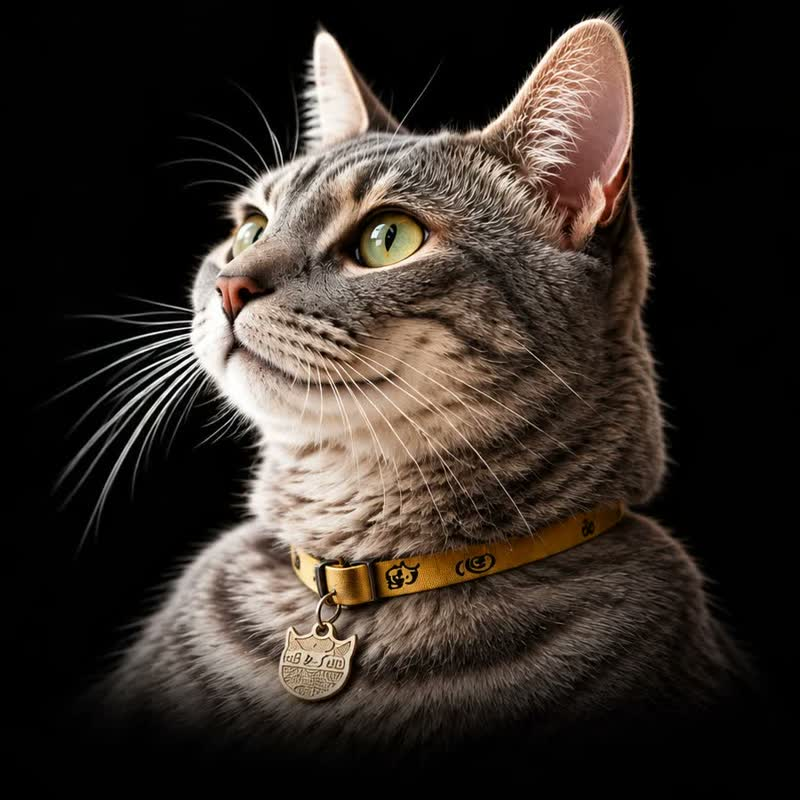
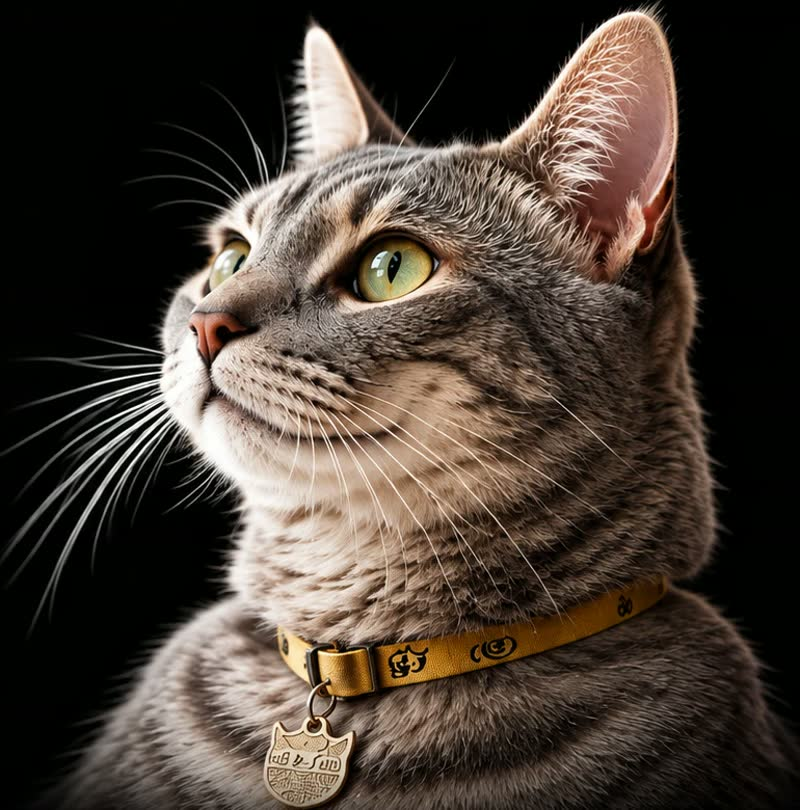
Hero mobile: gato maior e texto colado na imagem

diff --git a/hotel-mulher-gato-v3sn/index.html b/hotel-mulher-gato-v3sn/index.html
@@ -180,7 +180,7 @@ h2,h3{font-weight:500}
 
 /* Texto maior + vídeo evidente */
 .media img{height:auto;object-position:center}.gallery img{height:100%;object-position:center}.split>*{min-width:0}
-@media(max-width:700px){.hero picture{top:64px;bottom:auto;height:auto;aspect-ratio:1/1}.hero img.cat{object-position:50% 0;-webkit-mask-image:linear-gradient(0deg,transparent 0,#000 14%);mask-image:linear-gradient(0deg,transparent 0,#000 14%)}.hero .wrap{padding-top:calc(64px + 100vw - 24px)}.hero::after{background:linear-gradient(0deg,var(--bg) 46%,rgba(9,9,9,0) 62%)}}
+@media(max-width:700px){.hero picture{top:64px;bottom:auto;height:auto;aspect-ratio:770/780}.hero img.cat{object-position:50% 0;-webkit-mask-image:linear-gradient(0deg,transparent 0,#000 10%);mask-image:linear-gradient(0deg,transparent 0,#000 10%)}.hero .wrap{padding-top:calc(64px + 101vw - 46px)}.hero::after{background:linear-gradient(0deg,var(--bg) 46%,rgba(9,9,9,0) 62%)}}
 body{font-size:clamp(20px,1.8vw,22px)}
 @media(max-width:700px){body{font-size:21px}h2{font-size:2.45rem}}
 .eyebrow{font-size:1.05rem}
